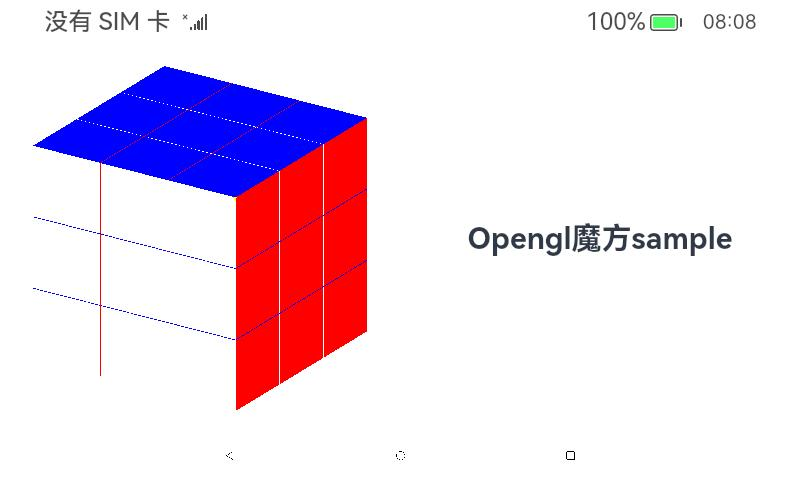
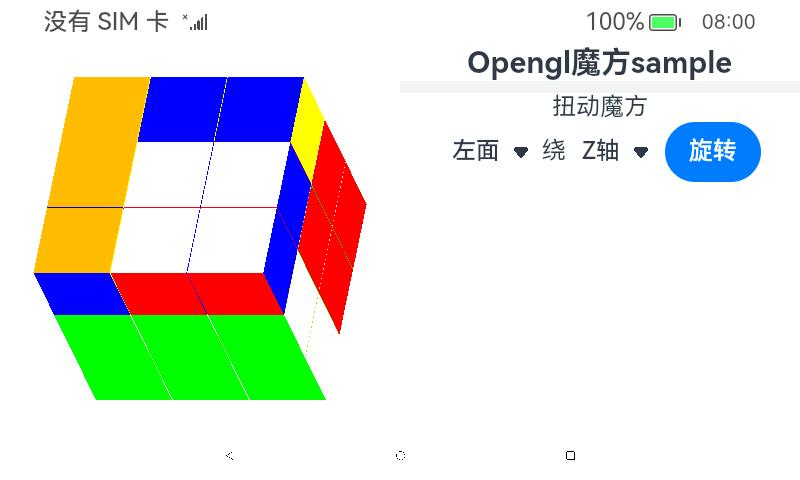
更新了魔方2.0的说明文档

diff --git a/unionpi_tiger/sample/app/magiccube/README.md b/unionpi_tiger/sample/app/magiccube/README.md
@@ -1,8 +1,16 @@
-# OpenGL魔方1.0
-本例使用Native XComponent作为opengl的自定义绘制画板，使用opengl es 3.0标准进行魔方的绘制。通过滑动屏幕，可以对魔方进行旋转变换，可借此观察魔方的各个部分，目前尚未实现魔方的扭动操作，等待后续实现。
+# OpenGL魔方2.0
+## 实现介绍
+本例使用Native XComponent作为opengl的自定义绘制画板，使用opengl es 3.0标准进行魔方的绘制。通过滑动屏幕，可以对魔方进行旋转变换，可借此观察魔方的各个部分。在右侧菜单选择旋转轴与旋转面，点击旋转，左侧的魔方相应面便会按旋转轴逆时针旋转90°
+![2.jpg](../figures/magiccube/2.jpg)
+## 运行环境要求
+本示例仅支持在标准系统上运行。  
+* 系统要求：openharmony 4.0 Beta2及以上
+* SDK：full sdk 4.0.9.6(API Version 10)
+* 开发工具: DevEco Studio 4.0.0.400
+* Gpu: 支持OpenGL ES 3.0及以上
 ## XComponent简介
-`Native XComponent`是`XComponent`组件提供在Native层的实例，可作为JS层和Native层`XComponent`绑定的桥梁。`XComponent`所提供的的NDK接口都依赖于该实例。接口能力包括获取`Native Window`实例、获取`XComponent`的布局/事件信息、注册`XComponent`的生命周期回调、注册`XComponent`的触摸、鼠标、按键等事件回调。针对`Native XComponen`t，主要的开发场景如下：
-1. 利用`Native XComponent`提供的接口注册`XComponen`t的生命周期和事件回调。
+`Native XComponent`是`XComponent`组件提供在Native层的实例，可作为JS层和Native层`XComponent`绑定的桥梁。`XComponent`所提供的的NDK接口都依赖于该实例。接口能力包括获取`Native Window`实例、获取`XComponent`的布局/事件信息、注册`XComponent`的生命周期回调、注册`XComponent`的触摸、鼠标、按键等事件回调。针对`Native XComponent`，主要的开发场景如下：
+1. 利用`Native XComponent`提供的接口注册`XComponent`的生命周期和事件回调。
 2. 在这些回调中进行初始化环境、获取当前状态、响应各类事件的开发。
 3. 利用`Native Window`和`EGL`接口开发自定义绘制内容以及申请和提交Buffer到图形队列。
 
@@ -24,14 +32,21 @@ target_link_libraries(tetrahedron_napi PUBLIC uv)
 以添加opengl相关依赖库至项目中
 ### 引入相关文件
 由于`Native XComponent`底层代码较复杂，且相对固定。可将[NativeOpenGL](https://gitee.com/openharmony/applications_app_samples/tree/master/code/BasicFeature/Native/NdkOpenGL)项目的`module.cpp`,`napi_manager.cpp`,`napi_manager.h`,`napi_util.cpp`,`napi_util.h`,`app_napi.cpp`,`app_napi.h``native_common.h`源文件,复制到项目中。这样就相当于有了一个现成的框架，只需要关心opengl的代码部分。
+### 导入依赖库
+由于扭动部分需要进行矩阵运算，所以使用了[glm](https://github.com/g-truc/glm)作为矩阵运算库，glm是一个纯头文件库，因此运行sample时下载glm到`entry/src/main/cpp/include`即可
 ### 编写opengl实现部分
-创建一个OpenglDraw类，实现以下public成员函数
+创建一个OpenglDraw类，实现以下public成员函数，并定义旋转轴和旋转面的枚举类
 ```C++
+enum class Axis { X, Y, Z };
+
+enum class Direction { Left, Middle, Right };
+
 int32_t Init(EGLNativeWindowType windowHandle, int windowWidth, int windowHeight);
 void Update(void);
 int32_t Quit(void);
-float angleX = 30.0f;
-float angleY = 45.0f;
+void twist(Axis axis, Direction dir);
+float angleX = -45.0f;
+float angleY = 30.0f;
 ```
 #### 初始化opengl环境
 首先Init函数在`AppNapi`类的`OnSurfaceCreated`回调中调用，该回调将参数类型强制类型转换后传入init函数:
@@ -86,10 +101,34 @@ return 0;
 初始化的时候，如果使用opengl es 3.0标准，注意给`eglCreateWindowSurface`传入的EglConfig，需要将`EGL_RENDERABLE_TYPE`设置为`EGL_OPENGL_ES3_BIT`,给`eglCreateContext`传入的attrib3_list，`EGL_CONTEXT_CLIENT_VERSION`也需要设置为3，如果没有完全
 设置，则不会启用es3.0标准。打开深度测试时，除了需要调用`glEnable(GL_DEPTH_TEST)`,也需要在EglConfig中添加`EGL_DEPTH_SIZE, 24`来申请深度缓冲区，因为EGL默认并不会申请深度缓冲区，如果没有深度缓冲区将会无法执行深度测试，导致面绘制错乱的问题。初始化完成后，`OnSurfaceCreated`继续调用`update`函数来更新绘制图像。
 #### 绘制魔方
-绘制部分，本例采用的方式是图元分解法，一个n阶魔方可以看作由$n^3-(n-2)^3$个小正方体组成，每个正方体的颜色面也是一致的排列，因此可以先设置好小正方体组成的所有三角形顶点参数和颜色，然后使用`glDrawArraysInstanced`一次性画出27个小正方体，在之前传入`offsets`实例化数组，合理设置`offsets`数组的值会让每个小正方体平移到魔方相应的位置。后续再设置用于旋转变换的实例化数组，可使每个正方体旋转不同的角度，进而实现魔方的扭动。
+绘制部分，本例采用的方式是图元分解法，一个n阶魔方可以看作由$n^3-(n-2)^3$个小正方体组成，每个正方体的颜色面也是一致的排列，因此可以先设置好小正方体组成的所有三角形顶点参数和颜色，然后使用`glDrawArraysInstanced`一次性画出26个小正方体，在之前传入`offsets`,`translate`实例化数组，合理设置`offsets`数组的值会让每个小正方体平移到魔方相应的位置。`translate`记录每个正方体所做的旋转变换，可使每个正方体旋转不同的角度，进而实现魔方的扭动。
 #### 旋转魔方
-napi提供了`updateAngle`方法，传入两个参数，分别是滑动时在x轴偏移的距离与y轴偏移的距离,然后根据距离乘以一个旋转速度转化为平移的角度值，然后更新`OpenglDraw`类的`angleX`，`angleY`字段,调用`update()`更新图像。`OpenglDraw`类的`update()`函数会读取`angleX`，`angleY`字段，然后转换为弧度值，计算sin,cos生成对应的旋转矩阵，然后送入顶点着色器的`uniform`中，再调用绘制函数，绘制时着色器便会乘以这个旋转矩阵完成旋转变换。
+napi提供了`updateAngle`方法，传入两个参数，分别是滑动时在x轴偏移的距离与y轴偏移的距离,然后根据距离乘以一个旋转速度转化为平移的角度值，然后更新`OpenglDraw`类的`angleX`，`angleY`字段,调用`update()`更新图像。`OpenglDraw`类的`update()`函数会读取`angleX`，`angleY`字段，转换为弧度值，计算sin,cos生成对应的旋转矩阵，然后送入顶点着色器的`uniform`中，再调用绘制函数，绘制时着色器便会乘以这个旋转矩阵完成旋转变换。
+##### 扭动魔方
+napi提供了`twist`方法，传入两个参数，分别是扭动的旋转轴以及旋转面的枚举，先遍历魔方的每个小正方体的中心点坐标，找到需要旋转的小正方体(旋转面如为左面则旋转轴对应到坐标的分量小于0，中间面则等于0，右面则大于0),找到符合的小正方体后，调用`twistOneBlock`方法旋转这个小正方体，只需要取出小正方体对应的旋转矩阵，乘以逆时针旋转90°的旋转矩阵后即可，然后调用`draw`方法重新绘制旋转后的魔方图像。
 #### ets编写
-在ui中添加一个`XComponent`控件给opengl提供画板,设置其id,`type`设置为surface,`libraryname`设置为magiccube,库名并不用带lib前缀和.so后缀。然后添加`gesture`控件方法添加触摸监听，传入`PanGesture`使用滑动触摸的监听，在`onActionUpdate`(滑动中)回调中，调用libmagiccube.so中napi提供的`updateAngle`方法来旋转魔方的位置，这样就能实现滑动旋转魔方的效果。
-## 结果展示
-![2.jpg](../figures/magiccube/2.jpg)
+在ui中添加一个`XComponent`控件给opengl提供画板,设置其id,`type`设置为surface,`libraryname`设置为magiccube,库名并不用带lib前缀和.so后缀。然后添加`gesture`控件方法添加触摸监听，传入`PanGesture`使用滑动触摸的监听，在`onActionUpdate`(滑动中)回调中，调用libmagiccube.so中napi提供的`updateAngle`方法来旋转魔方的位置，这样就能实现滑动旋转魔方的效果。在右侧新增俩个选择框，一个文本框和一个按钮，选择框用于选择旋转面和旋转轴，在按钮点击的回调事件中调用`twist`方法，传入旋转轴和旋转面即可完成扭动。
+### 注意事项
+在遍历魔方的每个小正方体的中心点坐标，找到需要旋转的小正方体时，由于坐标都是以单精度浮点数存储的，因此在进行矩阵运算时可能会发生精度损失，因此不能直接去判断小于0，等于0或者大于0。而是要考虑误差情况。代码如下：
+```C++
+constexpr double precision = 0.000001f;
+switch (dir) {
+    case Direction::Left:
+        if (block[index] < -precision) {
+            twistOneBlock(i, axis);
+        }
+        break;
+    case Direction::Middle:
+        if (std::fabs(block[index]) < precision) {
+            twistOneBlock(i, axis);
+        }
+        break;
+    case Direction::Right:
+        if (block[index] > precision) {
+            twistOneBlock(i, axis);
+        }
+        break;
+    default:
+        break;
+}
+```
